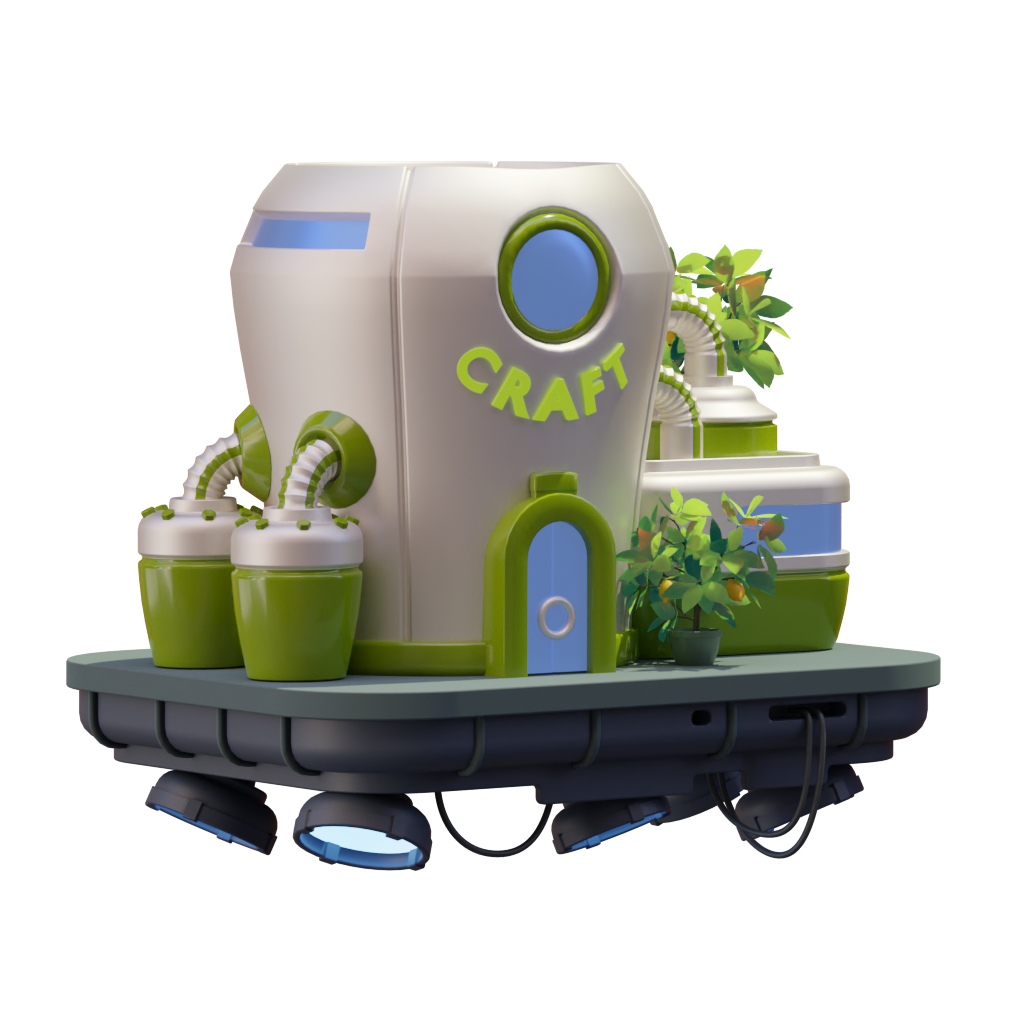
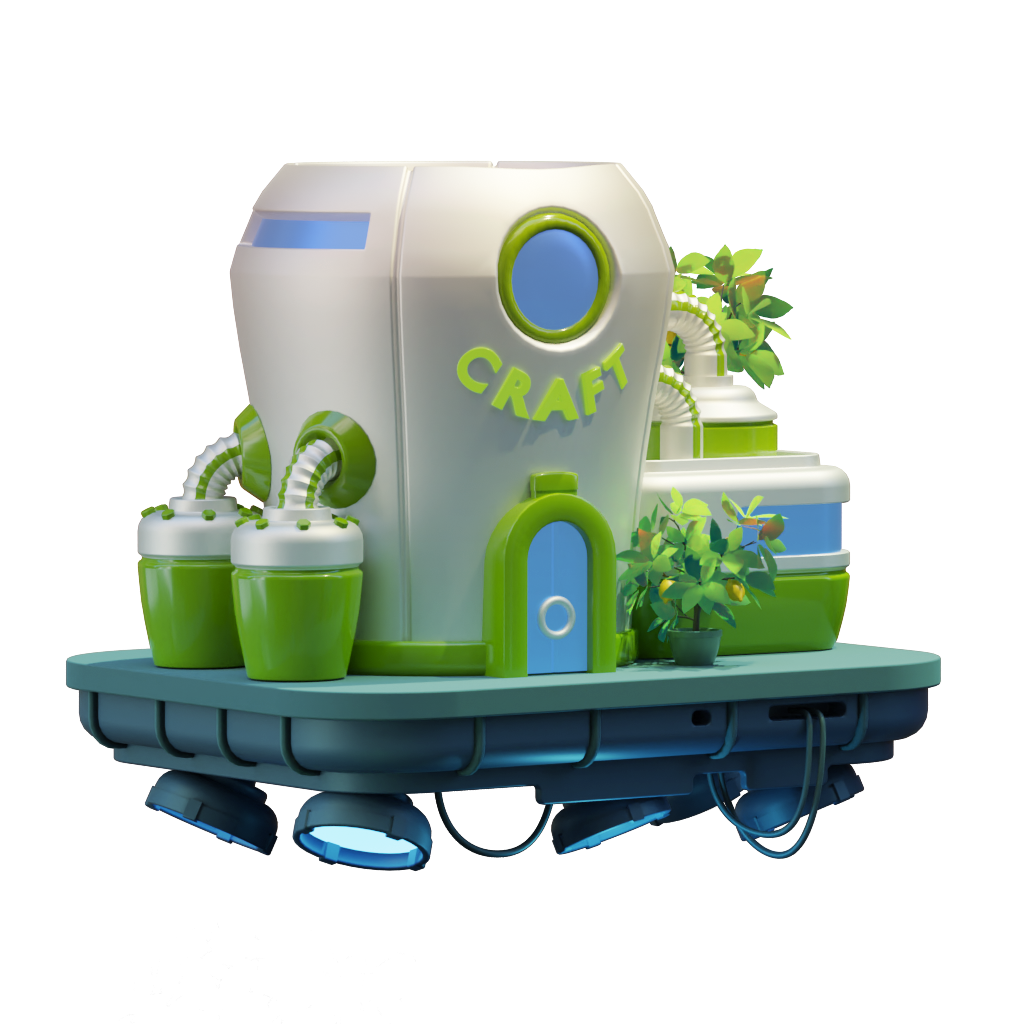
Update mixer again

Changed region(s): [[0.0938, 0.1875, 0.9375, 0.875], [0.1562, 0.75, 0.2188, 0.8125], [0.2812, 0.7188, 0.3125, 0.75]]

diff --git a/src/components/threejs/mixer.ts b/src/components/threejs/mixer.ts
@@ -54,7 +54,7 @@ export class Model {
     this.controls.autoRotate = true;
     this.controls.autoRotateSpeed = 28.3;
 
-    this.light = new DirectionalLight(0xFFFFFF, 2.8);
+    this.light = new DirectionalLight(0xFFFFFF, 2.1);
     this.light.position.set(this.camera.position.x, this.camera.position.y, this.camera.position.z);
     this.scene.add(this.light);
 
